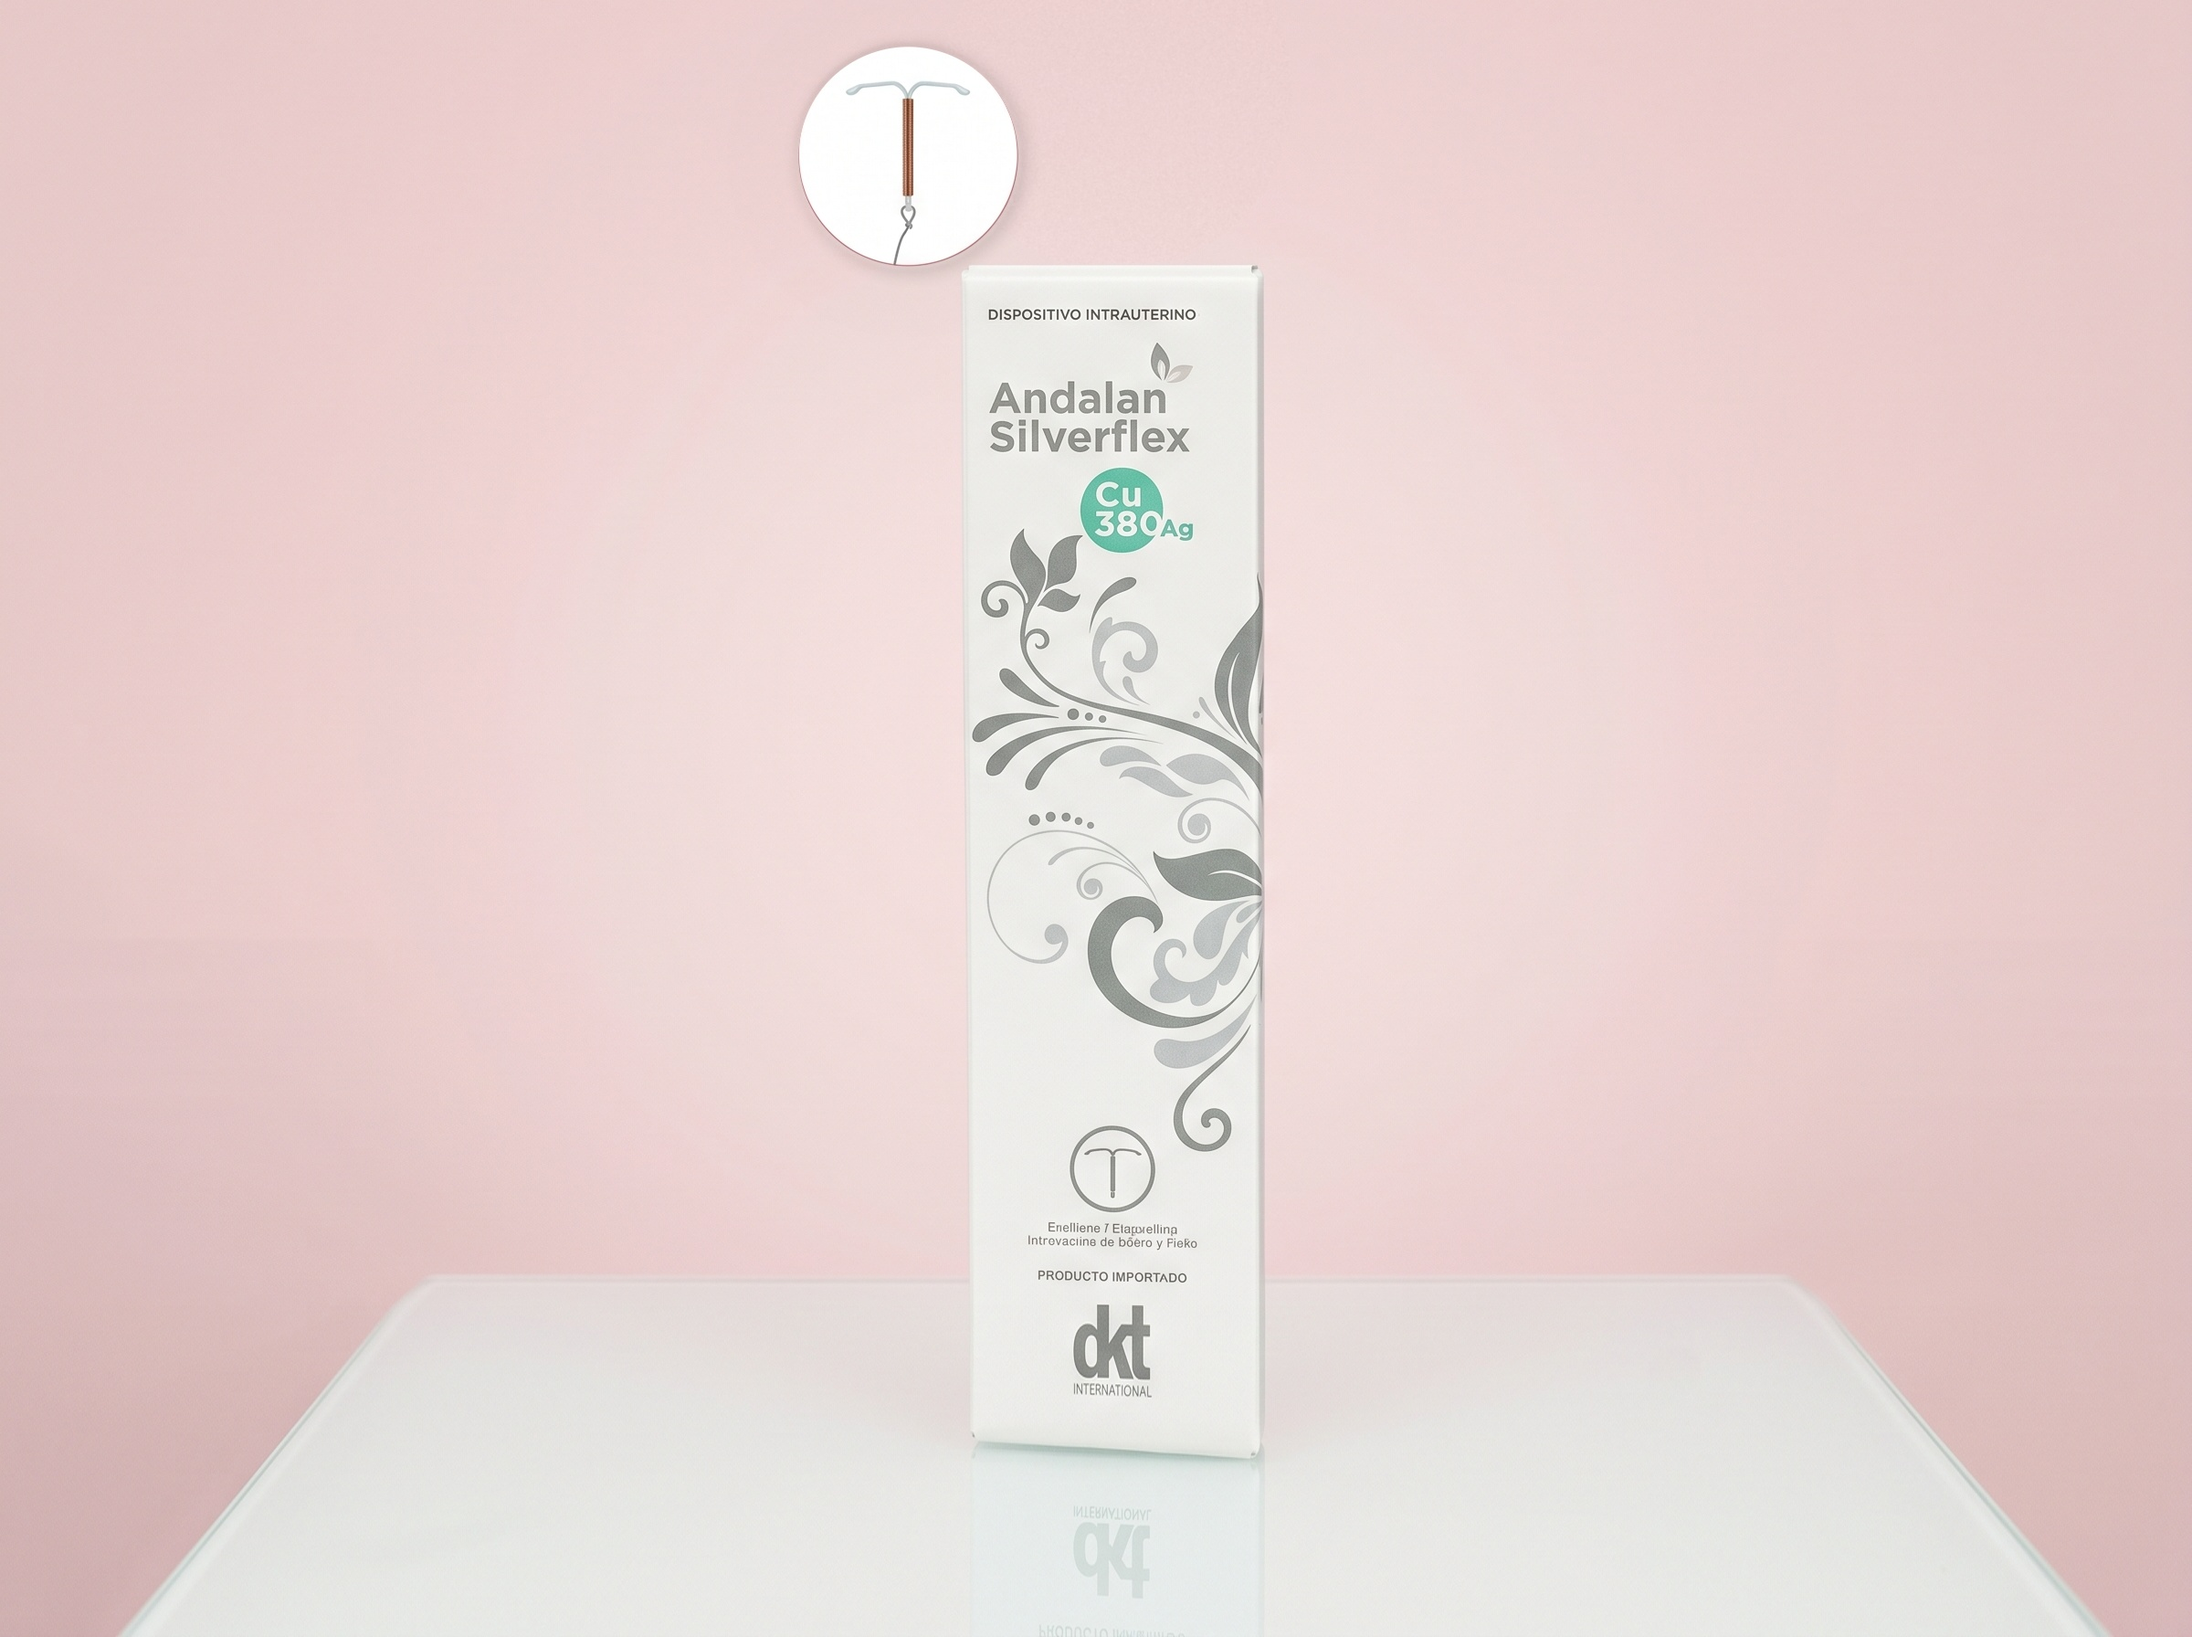
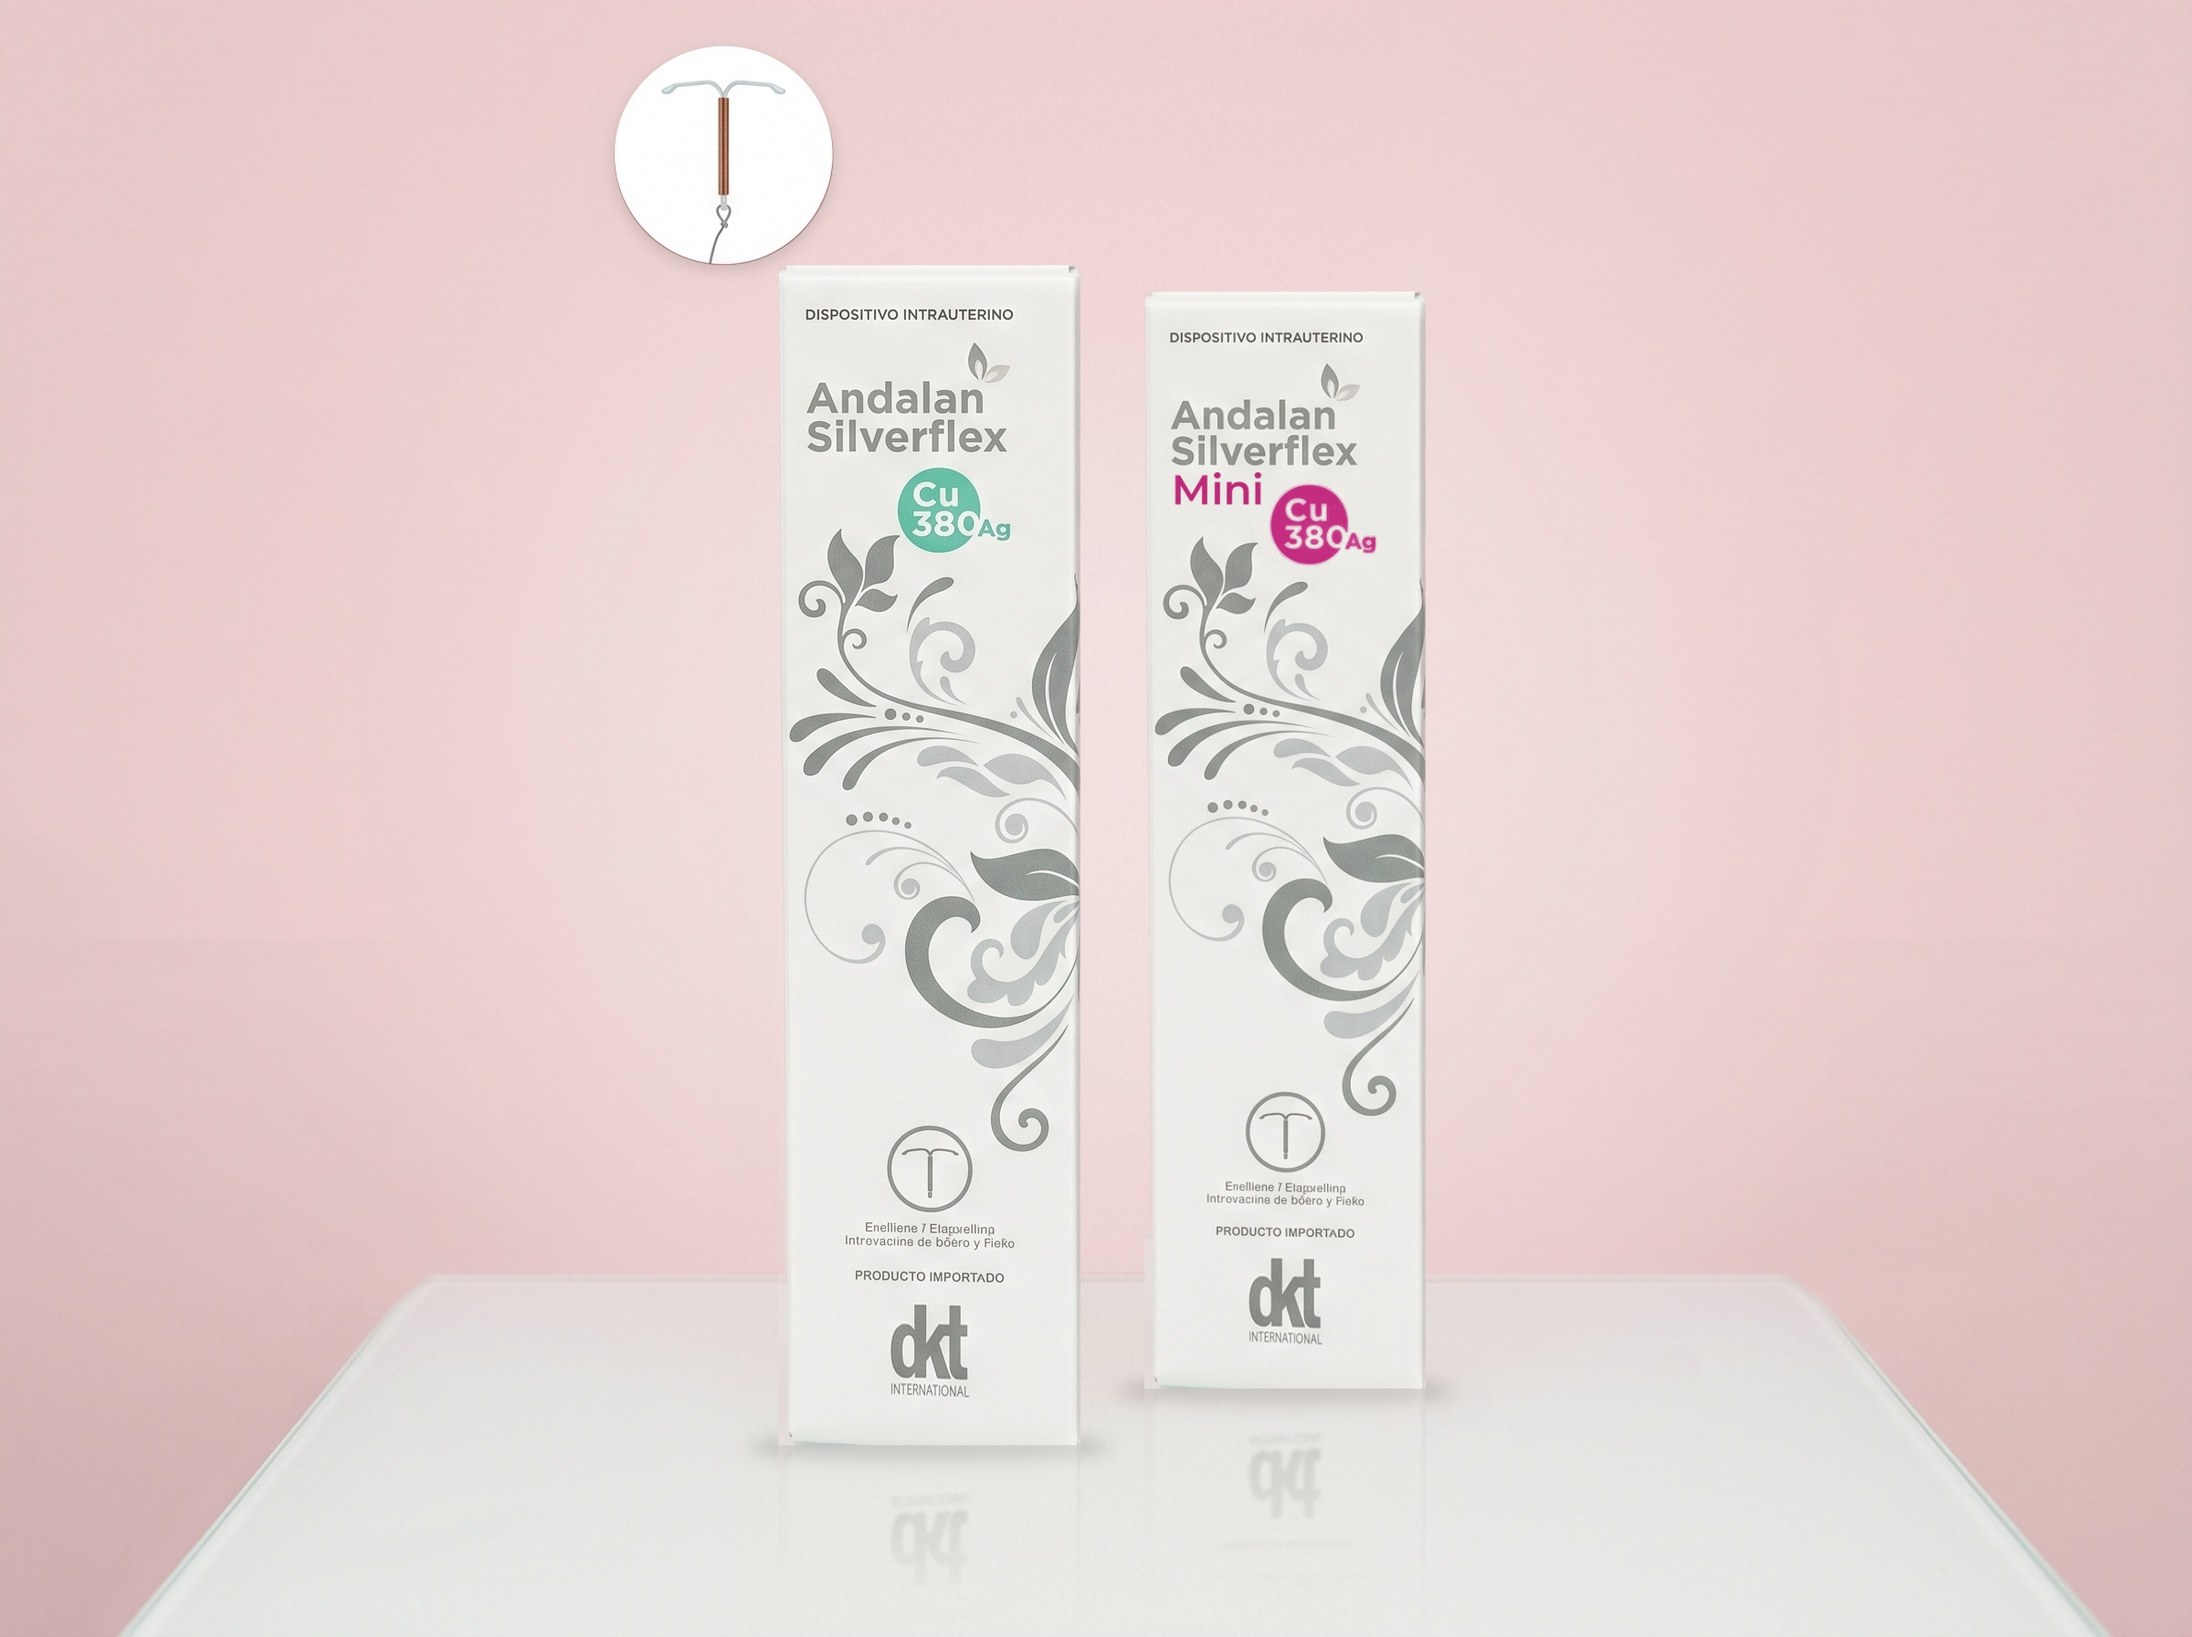
.,

Changed region(s): [[0.2812, 0.0312, 0.6562, 0.9062], [0.375, 0.875, 0.4062, 0.9062]]

diff --git a/especializadas.html b/especializadas.html
@@ -433,7 +433,7 @@
 /* Photo strip */
 .andalan-photos {
   display: grid;
-  grid-template-columns: 1fr 1fr 1fr;
+  grid-template-columns: 1fr 1fr 1fr 1fr;
   gap: 12px;
 }
 .andalan-photo-panel {
@@ -545,7 +545,7 @@
   .product-photo-wrap { aspect-ratio: 16/9; }
   .alliance-divider .container { flex-direction: column; align-items: flex-start; gap: 14px; }
   .andalan-layout { grid-template-columns: 1fr; gap: 32px; }
-  .andalan-photos { grid-template-columns: 1fr 1fr 1fr; }
+  .andalan-photos { grid-template-columns: 1fr 1fr; }
 }
 </style>
 </head>
@@ -771,12 +771,12 @@
         <div class="andalan-info-col">
           <p class="product-number">DKT 02 · DIU de Cobre</p>
           <h2>Línea DIU Andalan</h2>
-          <p>DIU de cobre libre de hormonas. Eficacia &gt;99%, inserción rápida y reversible. Sin impacto en lactancia. 5 versiones para cada necesidad clínica.</p>
+          <p>DIU de cobre libre de hormonas. Eficacia &gt;99%, inserción rápida y reversible. Sin impacto en lactancia. 8 versiones — incluyendo modelos mini y con núcleo de plata — para cada necesidad clínica.</p>
           <div class="product-tags">
             <span class="product-tag" style="background:rgba(180,50,100,0.07);border-color:rgba(180,50,100,0.25);color:#B43264;">Sin hormonas</span>
             <span class="product-tag" style="background:rgba(180,50,100,0.07);border-color:rgba(180,50,100,0.25);color:#B43264;">+99% eficacia</span>
             <span class="product-tag" style="background:rgba(180,50,100,0.07);border-color:rgba(180,50,100,0.25);color:#B43264;">Reversible</span>
-            <span class="product-tag" style="background:rgba(180,50,100,0.07);border-color:rgba(180,50,100,0.25);color:#B43264;">5 versiones</span>
+            <span class="product-tag" style="background:rgba(180,50,100,0.07);border-color:rgba(180,50,100,0.25);color:#B43264;">8 versiones</span>
           </div>
           <div class="andalan-cta-wrap">
             <a href="https://wa.me/593987980003?text=Hola%2C%20deseo%20cotizar%20DIU%20Andalan%20DKT"
@@ -788,7 +788,7 @@
 
         <!-- Columna derecha: lista de versiones -->
         <div class="andalan-versions-col">
-          <p class="andalan-versions-label">5 versiones disponibles</p>
+          <p class="andalan-versions-label">8 versiones disponibles</p>
 
           <div class="andalan-version-row">
             <span class="andalan-version-cu">Cu 380</span>
@@ -818,6 +818,24 @@
             <span class="andalan-version-cu">Cu 380 Ag</span>
             <span class="andalan-version-name">Andalan Silverflex</span>
             <span class="andalan-version-years">Hasta 5 años</span>
+          </div>
+
+          <div class="andalan-version-row">
+            <span class="andalan-version-cu">Cu 380 Ag</span>
+            <span class="andalan-version-name">Andalan Silverflex Mini</span>
+            <span class="andalan-version-years">Hasta 5 años · talla mini</span>
+          </div>
+
+          <div class="andalan-version-row">
+            <span class="andalan-version-cu">Cu 380</span>
+            <span class="andalan-version-name">Andalan Copperflex</span>
+            <span class="andalan-version-years">Hasta 5 años</span>
+          </div>
+
+          <div class="andalan-version-row">
+            <span class="andalan-version-cu">Cu 380</span>
+            <span class="andalan-version-name">Andalan Copperflex Mini</span>
+            <span class="andalan-version-years">Hasta 5 años · talla mini</span>
           </div>
         </div>
 
@@ -857,6 +875,17 @@
             Silverflex
           </div>
           <div class="andalan-photo-label">Silverflex</div>
+        </div>
+
+        <!-- Panel 4: Silverflex Mini + Copperflex + Copperflex Mini -->
+        <div class="andalan-photo-panel">
+          <img src="assets/alianzas/andalan-group4.jpg" alt="Andalan Silverflex Mini y Copperflex"
+               onerror="this.style.display='none';this.nextElementSibling.style.display='flex'">
+          <div class="andalan-photo-placeholder" style="display:none">
+            <svg width="28" height="28" viewBox="0 0 24 24" fill="none" stroke="currentColor" stroke-width="1.5"><rect x="3" y="3" width="18" height="18" rx="2"/><circle cx="8.5" cy="8.5" r="1.5"/><path d="m21 15-5-5L5 21"/></svg>
+            Silverflex Mini · Copperflex · Copperflex Mini
+          </div>
+          <div class="andalan-photo-label">Silverflex Mini · Copperflex</div>
         </div>
 
       </div>
